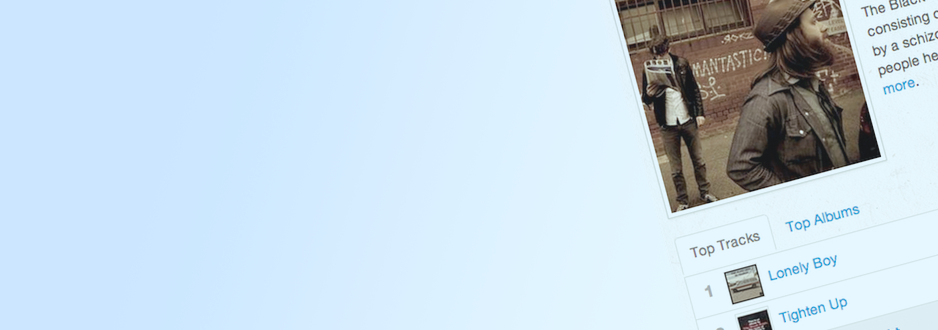
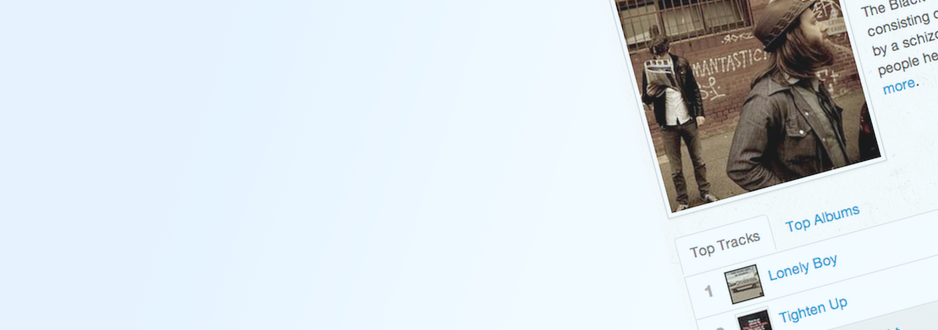
changed the carousel color

Changed region(s): [[0.0, 0.0, 0.371, 1.0]]

diff --git a/app/assets/stylesheets/generic.css.scss b/app/assets/stylesheets/generic.css.scss
@@ -4,7 +4,7 @@
 
 #application_main_content {
   .hero-unit {
-    background:#FFF url('/assets/homepage_bkg_screenshot.png') no-repeat right top;
+    background:#EEE url('/assets/homepage_bkg_screenshot.png') no-repeat right top;
     
     h1 {
       text-shadow:0 -1px 0 #FFF;
